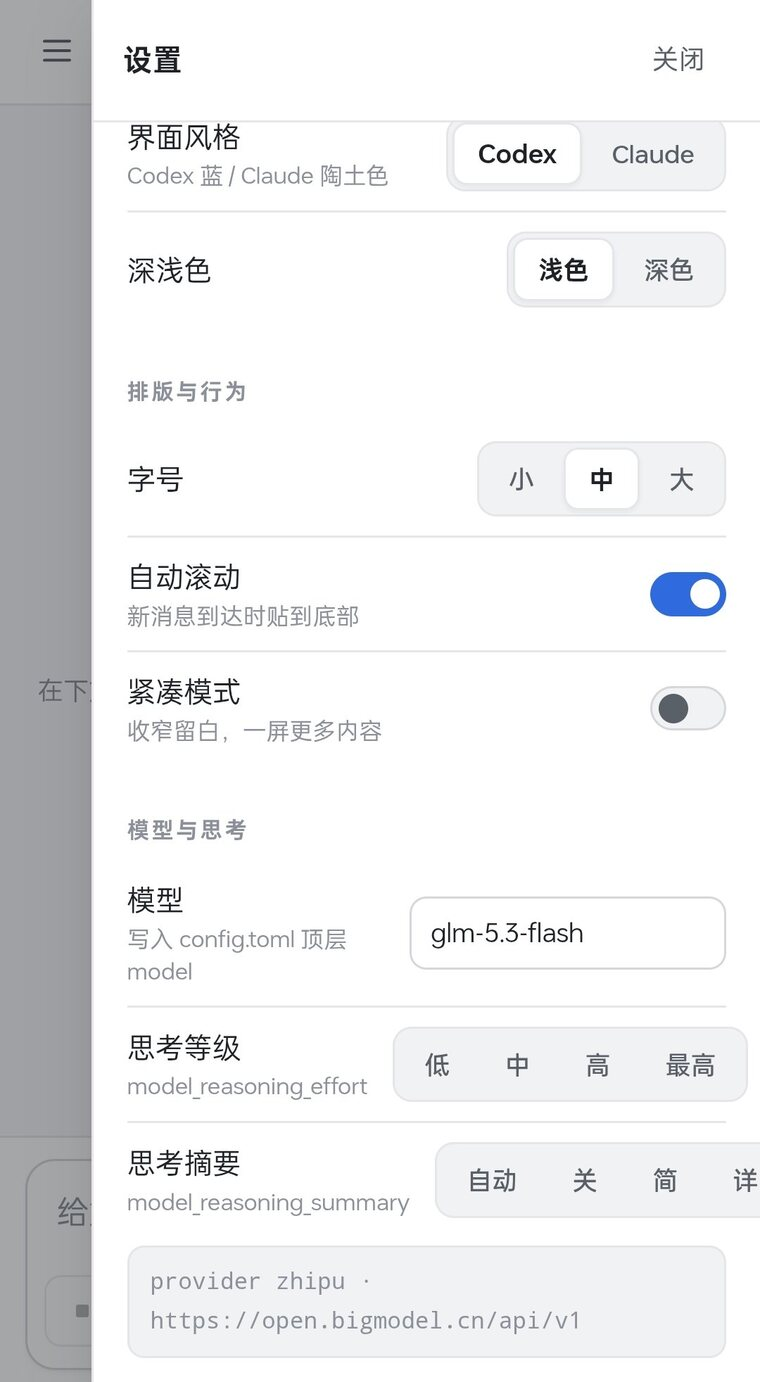
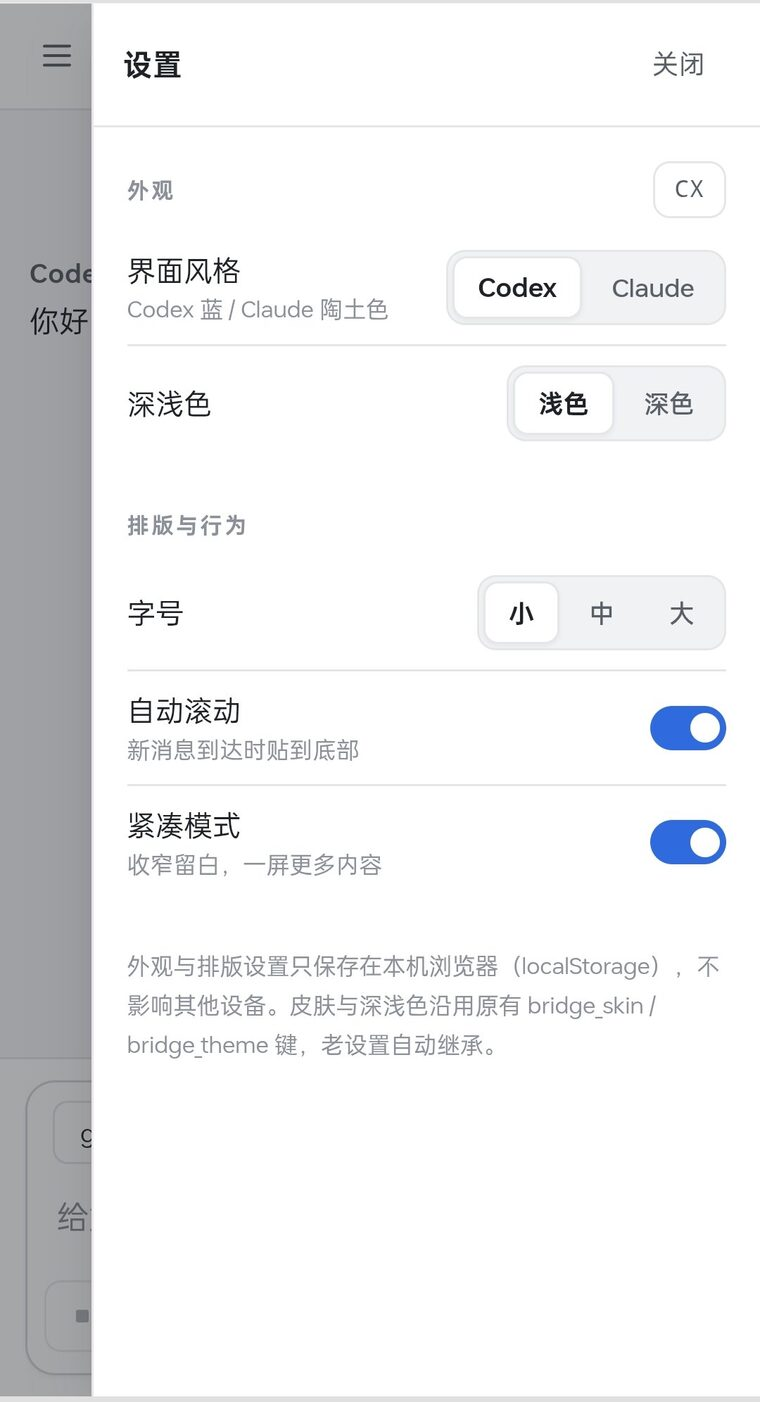
chore(release): 3.8.2 修复批（10 条）
- 看板 set 禁止直写终态（补完人审门禁的另一半）
- policy-watch：norm_err 接入 M1、清死码与死参数、zstd 缺失干净退出、M1 加时间窗 + 连续语义
- Web 桥：ctl.sh 注入 BRIDGE_HOST_API_URL（模型清单恢复）、initialize 补 experimentalApi（切模型/切思考恢复）
- 绕圈提醒：pending 读取顺序调整 + 去掉扫描后的快照一致性校验（此前 8 小时发不出一次）；文案改为指向判据入口、不下结论
- 切引擎前检查运行中工单（409 + runningTasks，force:true 才放行）
- README 换新截图（Codex 对话 / Pi 对话 / 设置页）
- skills：兜底机械量补充「只报事实不报结论」的定位与衔接

diff --git a/src/index.js b/src/index.js
@@ -271,9 +271,6 @@ function startPolicyWatch(sessionId) {
   policyWatchFlights.set(sessionId, flight)
   void flight.then((result) => {
     if (result?.error) { policyWatchErr('policy-watch-scan', result.error); return }
-    let current
-    try { const s = statSync(result.snapshot.path); current = { mtimeMs: s.mtimeMs, size: s.size } } catch { return }
-    if (current.mtimeMs !== result.snapshot.mtimeMs || current.size !== result.snapshot.size) return
     if (result.code === 0) {
       policyWatchPending.delete(sessionId)
       persistPolicyWatchState()
@@ -5012,6 +5009,18 @@ async function handleConfigSet(req, res) {
       if (ENGINES[body.engine] === undefined) {
         return send(res, { ok: false, error: `未知引擎：${body.engine}（可选 ${Object.keys(ENGINES).join(' / ')}）` }, 400)
       }
+      // 有工单在跑时切换 = 「面板按新引擎展示、工单仍在旧引擎执行」（activeEngineId 当场翻边，
+      // providers/key/active/delete 四条接口会转头去读另一个引擎的配置）。要显式 force:true 才放行。
+      const runningTasks = [...tasks.values()].filter((t) => t && typeof t === 'object' && t.status === 'running' && typeof t.id === 'string')
+      const engineNow = activeEngineId()
+      if (runningTasks.length && body.engine !== engineNow && body.force !== true) {
+        return send(res, {
+          ok: false,
+          error: `有 ${runningTasks.length} 个工单正在跑（${runningTasks.map((t) => t.id).join(', ')}），切换后面板会按新引擎展示而工单仍在旧引擎执行；确认切换请带 force:true`,
+          runningTasks: runningTasks.map((t) => ({ id: t.id, engine: t.engine || '' })),
+          activeEngine: engineNow,
+        }, 409)
+      }
       engineSwitched = setActiveEngineId(body.engine)
     }
     send(res, {
@@ -5501,11 +5510,11 @@ export function apply(ctx) {
     // `callbacks !== void 0 && entry !== void 0` 的派发前置条件，插件拿不到 entry
     // 就永远收不到。agent/pre-step 是每次请求必经，且广播到**所有会话**（2026-10-31
     // 实测 2 个会话均触发）。agent.id 就是 session id（同次探针实测，两者同值）。
-    if (typeof agent?.id === 'string' && agent.id) startPolicyWatch(agent.id)
-    const decision = await next()
-    if (decision.kind === 'reject') return decision
     const sessionId = agent?.id
     const pending = typeof sessionId === 'string' ? policyWatchPending.get(sessionId) : null
+    if (typeof sessionId === 'string' && sessionId) startPolicyWatch(sessionId)
+    const decision = await next()
+    if (decision.kind === 'reject') return decision
     if (!pending) return decision
     const now = Date.now()
     const lastDelivered = policyWatchDelivered.get(sessionId) || 0
@@ -5521,7 +5530,7 @@ export function apply(ctx) {
       id: `policy-watch-${randomBytes(8).toString('hex')}`,
       role: 'user',
       source: { kind: 'policy-watch' },
-      content: [{ type: 'text', text: `[POLICY_WATCH] 检测到${pending.summary}；考虑把当前卡点派单给第二引擎。` }],
+      content: [{ type: 'text', text: `[POLICY_WATCH] 四条机械量命中：${pending.summary}。这可能是在验证、也可能是原地打转 —— 真正决定「派不派」的是 skill 的「用户否了我时」二分自答 +「什么时候该派它」A/B 两分法；本提醒只是机械量，不下结论。` }],
     }
     return { ...decision, messages: [...decision.messages, message] }
   })

diff --git a/src/app-server-client.js b/src/app-server-client.js
@@ -1,7 +1,7 @@
 /**
  * app-server 客户端（stdio JSON-RPC，零依赖）—— second-engine 的 app-server 执行模式。
  *
- * 协议事实来源：/root/proj/appserver-spike/FINDINGS.md + run1.log（Codex T4 实测，2026-09-27）
+ * 协议事实来源：Codex app-server 实测记录（T4，2026-09-27；作者机留档于 appserver-spike/FINDINGS.md + run1.log）
  *   initialize → initialized → thread/start → turn/start → 事件流 → turn/completed
  *   interrupt: turn/interrupt {threadId, turnId}
  *

diff --git a/tools/policy-watch.py b/tools/policy-watch.py
@@ -26,6 +26,7 @@ import os
 import re
 import subprocess
 import sys
+from datetime import datetime
 
 SESSIONS_ROOT = os.path.expanduser("~/.dsh/sessions")
 SESSION_FILE = "session.v4.jsonl.zstd"
@@ -95,7 +96,10 @@ def pick_session(spec, root=SESSIONS_ROOT):
 
 def read_events(path):
     f = os.path.join(path, SESSION_FILE)
-    proc = subprocess.Popen(["zstd", "-dc", f], stdout=subprocess.PIPE)
+    try:
+        proc = subprocess.Popen(["zstd", "-dc", f], stdout=subprocess.PIPE)
+    except FileNotFoundError:
+        raise RuntimeError("zstd binary not found")
     for line in proc.stdout:
         line = line.strip()
         if not line:
@@ -107,15 +111,41 @@ def read_events(path):
     proc.wait()
 
 
-def analyze(events, steps_threshold, window_s):
+def _event_time(ev):
+    """Return event time in seconds, accepting epoch seconds/ms or ISO strings."""
+    for key in ("ts", "timestamp", "time", "createdAt"):
+        value = ev.get(key)
+        if value is None:
+            value = (ev.get("data") or {}).get(key)
+        if value is None:
+            continue
+        if isinstance(value, (int, float)):
+            return float(value) / 1000 if value > 10_000_000_000 else float(value)
+        if isinstance(value, str):
+            try:
+                return datetime.fromisoformat(value.replace("Z", "+00:00")).timestamp()
+            except ValueError:
+                try:
+                    n = float(value)
+                    return n / 1000 if n > 10_000_000_000 else n
+                except ValueError:
+                    pass
+    return None
+
+
+def analyze(events, steps_threshold, window_s=600):
+    events = list(events)
+    times = [_event_time(ev) for ev in events]
+    known = [t for t in times if t is not None]
+    m1_cutoff = max(known) - window_s if known else None
     calls = {}          # callId -> {name, args, seq, turn, step}
-    m1_streak = {}      # cmd_key -> [(err_key, seq)]
+    m1_streak = {}      # current command -> [err_key, count]
+    last_m1_cmd = None
     m1_hits = []
     edits = {}          # file_path -> [(old_h, new_h, seq, turn)]
     m2_hits = []
     step_sig = {}       # (turn, step) -> [result_texts]
     step_wait = set()   # (turn, step) 只含等待类调用
-    t_start = t_end = None
     n_ev = 0
 
     for ev in events:
@@ -149,6 +179,9 @@ def analyze(events, steps_threshold, window_s):
 
             name = call["name"]
             if name == "bash":
+                event_time = _event_time(ev)
+                if m1_cutoff is not None and event_time is not None and event_time < m1_cutoff:
+                    continue
                 try:
                     args = json.loads(call["args"] or "{}")
                 except ValueError:
@@ -160,7 +193,11 @@ def analyze(events, steps_threshold, window_s):
                 # `[exit code: N]`；而末条是 echo 之类的命令会把整体退出码变成 0（于是不标记），
                 # 单靠退出码会漏掉「成功但输出一字未变」的重复。输出本身会变的命令
                 # （date / ps / ls 变化目录）自然不命中。
-                out_sig = h(str(text)[:2000])
+                out_sig = h(norm_err(str(text))[:2000])
+                # M1 is continuous: any different command breaks the streak.
+                if last_m1_cmd != ck:
+                    m1_streak.clear()
+                last_m1_cmd = ck
                 prev = m1_streak.get(ck)
                 if prev and prev[0] == out_sig:
                     prev[1] += 1
@@ -226,6 +263,7 @@ def main():
     ap.add_argument("--session", help="会话 id 或路径（默认当前目录最新）")
     ap.add_argument("--root", default=SESSIONS_ROOT, help="会话根目录")
     ap.add_argument("--steps", type=int, default=4, help="M3 连续无推进步数阈值（默认 4）")
+    ap.add_argument("--window", type=float, default=600, help="M1 时间窗口秒数（默认 600）")
     ap.add_argument("--json", action="store_true", help="机器可读输出")
     a = ap.parse_args()
 
@@ -234,7 +272,7 @@ def main():
         print("[policy-watch] 找不到会话文件", file=sys.stderr)
         return 3
 
-    res = analyze(read_events(path), a.steps, 600)
+    res = analyze(read_events(path), a.steps, a.window)
     total = len(res["m1"]) + len(res["m2"]) + len(res["m3"])
 
     if a.json:

diff --git a/tools/dual-board/board_tool.py b/tools/dual-board/board_tool.py
@@ -423,6 +423,8 @@ def cmd_set(a) -> None:
             if k == "status":
                 if v not in VALID_STATUS:
                     die(5, f"非法状态：{v}")
+                if v in TERMINAL:
+                    die(5, f"不可通过 set 直接写入终态：{v}——请使用 complete / abandon")
                 if t.get("status") in TERMINAL:
                     die(5, f"{a.id} 已终结（{t['status']}），终态不可再改（含改回 pending）"
                            f"——要重做请开新任务并引用它")

diff --git a/docs/CHANGELOG.md b/docs/CHANGELOG.md
@@ -6,6 +6,7 @@
 
 | 版本 | 关键点 |
 |---|---|
+| **3.8.2** | **修复批（10 条）**（2026-10-31 发布，tag `v3.8.2`）。无新功能：① **看板 `set` 不能再直接写终态** —— 补完人审门禁的另一半（此前 `set <id> status=completed` 可从 pending 直达 completed，不写 `audit/completed-*.jsonl`、不查 `--result` 必填、不出板）；② **`policy-watch` 三处** —— M1 的输出比较接入 `norm_err()`（同一命令退出码 1↔2 切换不再漏判）、清掉 `window_s` / `t_start` / `t_end` 死码、`zstd` 缺失走干净退出码而非抛 traceback；③ **Web 桥两处** —— `ctl.sh` 注入 `BRIDGE_HOST_API_URL`（此前 `models` 恒为空，会话模型下拉只剩当前一个）、`as-client` 的 `initialize` 补 `capabilities.experimentalApi`（此前 app-server 拒绝 `thread/settings/update`，会话内切模型与切思考一起失效）；④ **绕圈提醒** —— `pending` 的读取挪到 `startPolicyWatch` 之前；⑤ **切引擎保护** —— 切之前检查运行中工单，有则 409 带 `runningTasks` 列表，`force:true` 才放行。**绕圈提醒（实测已通）**：pending 读取顺序调整 + 去掉「扫描完成后重新 stat、文件一长就丢弃整个结果」的快照校验（此前正是这条让提醒 8 小时发不出一次）。实测：连跑两条相同命令 → 注入 `[POLICY_WATCH]`，同一命中不重复提醒。 |
 | **3.8.1** | **发布前加固版**（2026-10-31 发布，tag `v3.8.1`）。无新功能，全部是 3.8.0 上线后暴露的可靠性问题：① **协作信号检测运行时加固** —— 脚本路径改为按模块自身位置定位（不再写死安装目录）、启动前探测解释器（缺 Python 只关检测、不影响对话，且错误留痕不再静默）、每会话 30s 最小间隔 + 会话文件 mtime/size 快照去重、状态落盘改原子写、注入消息 role 固定 `user` / 来源标 `policy-watch`（写 `system` 会让会话无法恢复：DSH 写路径不校验 role、resume 才校验）；② **桥配置写入加固** —— 原实现并发写互相踩，且失败分支会把半截临时文件 `rename` 成正式配置；现改为按配置路径串行 + TOML 写前写后双校验（python `tomllib`，fail-closed）+ 临时名 `pid.时间戳.随机串` + 失败只删临时文件。已验故障注入下正式文件 MD5 逐字节不变、10 并发最终文件完整可解析；③ **看板状态机两条漏洞** —— 依赖项出板后下游误判 `blocked`（现从 `audit/completed-<月>.jsonl` 补齐已终结集合）、`set`/`abandon` 能把 `completed` 改回 `pending`（现终态一律不可离开）。 |
 | **3.8.0** | **编排层与信号检测**（2026-10-30 发布，tag `v3.8.0`）。① `tools/policy-watch.py` 三信号（同命令同错误类连败 ≥2 / 同一文件编辑振荡 A→B→A / 连续 4 步无状态推进，跳过等待类调用）；② skill 分层重构：正文收成 400 行 + 4 个 `references/` 按需文件 + 读取闸门表（手册本身不再吃掉上下文）；③ dual-board 出板须 `--reviewed-by human`（自动化用 `--keep` 且不伪造 human 标记）、出板记录落 `audit/completed-<月>.jsonl`；④ board 增 `steps` 字段（≤20 步）与 N 角色泛化（`roles` / `inbox-<role>` / `--to ROLE` / `claim --owner` 校验）；⑤ 唤醒层实验端点 `POST /api/_exp/wake`（`session.append` + `agents.resume`）；⑥ UTF-8 跨 chunk 分帧改用 `StringDecoder`（中文不再被切成 U+FFFD）；⑦ Pi 模型下发前校验（不在可用集合返回 400，探测失败放行）。 |
 | **3.7.0** | **双引擎能力契约 + Pi 运行时接入**（2026-10-29 发布，tag `v3.7.0`）。① Pi 运行时与桥：`src/engine/pi-*.js`、`bridge/pi/server.mjs`；② 能力契约拆分：`chatBridge`（可用性）+ `chatBridgeMode`、`mcp`、`webSearch`，清理目标 `cleanup` 独立于 `resume`；③ 设置面板与浮球按引擎渲染（Pi 下不再出现 Codex 探测/版本/占用/复核/工单等假入口）；④ 浏览器桥按引擎署名与提示（Pi 不提示 `codex-env`，页面身份取 `/api/health`→`/api/config` 双探针）；⑤ Pi 模型真源：runtime `get_state` → 配置默认（返回带 `source`，`fallback` 语义收窄）；⑥ 版本检查按引擎分流（Codex=GitHub release，Pi=npm registry，页面/浮球同款三档徽标）；⑦ AGENTS.md 双写 Codex+Pi（Pi 段身份为 pi），Pi 桥会话落盘（去 `--no-session`）、默认工作区 `~/pi-workspace`；⑧ **写入口与清理门禁加固**：Pi 提供方 id 加保留名白名单（`constructor`/`prototype`/`toString` 等对象原型键不再能写成配置键）、`mcp.json` 纳入同一把写锁与原子写（并发 10 写不再丢）、`.bak` 轮转保留 5 份、清理接口按引擎判（错引擎一律 409 且带 `engineMismatch`，不再误删另一引擎的会话）。 |
